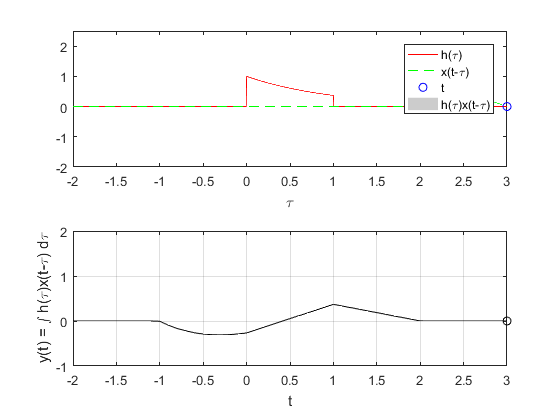
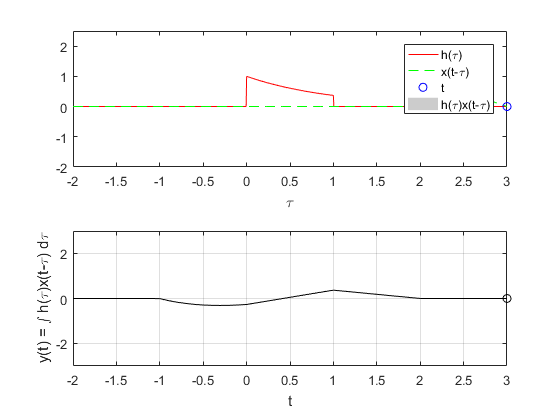
Nuevos parametros

diff --git a/RPL04 Convolución y Correlación de señales en tiempo continuo/Ejercicio/html/Practica4.html b/RPL04 Convolución y Correlación de señales en tiempo continuo/Ejercicio/html/Practica4.html
@@ -6,7 +6,7 @@
    <!--
 This HTML was auto-generated from MATLAB code.
 To make changes, update the MATLAB code and republish this document.
-      --><title>Pr&aacute;ctica 4: Convoluci&oacute;n y Correlaci&oacute;n de se&ntilde;ales en tiempo continuo</title><meta name="generator" content="MATLAB 9.0"><link rel="schema.DC" href="http://purl.org/dc/elements/1.1/"><meta name="DC.date" content="2017-05-12"><meta name="DC.source" content="Practica4.m"><style type="text/css">
+      --><title>Pr&aacute;ctica 4: Convoluci&oacute;n y Correlaci&oacute;n de se&ntilde;ales en tiempo continuo</title><meta name="generator" content="MATLAB 9.0"><link rel="schema.DC" href="http://purl.org/dc/elements/1.1/"><meta name="DC.date" content="2017-05-13"><meta name="DC.source" content="Practica4.m"><style type="text/css">
 html,body,div,span,applet,object,iframe,h1,h2,h3,h4,h5,h6,p,blockquote,pre,a,abbr,acronym,address,big,cite,code,del,dfn,em,font,img,ins,kbd,q,s,samp,small,strike,strong,sub,sup,tt,var,b,u,i,center,dl,dt,dd,ol,ul,li,fieldset,form,label,legend,table,caption,tbody,tfoot,thead,tr,th,td{margin:0;padding:0;border:0;outline:0;font-size:100%;vertical-align:baseline;background:transparent}body{line-height:1}ol,ul{list-style:none}blockquote,q{quotes:none}blockquote:before,blockquote:after,q:before,q:after{content:'';content:none}:focus{outine:0}ins{text-decoration:none}del{text-decoration:line-through}table{border-collapse:collapse;border-spacing:0}
 
 html { min-height:100%; margin-bottom:1px; }
@@ -67,16 +67,18 @@ table td { padding:7px 5px; text-align:left; vertical-align:top; border:1px soli
 
 
   </style></head><body><div class="content"><h1>Pr&aacute;ctica 4: Convoluci&oacute;n y Correlaci&oacute;n de se&ntilde;ales en tiempo continuo</h1><!--introduction--><p><b>Alvarado Balbuena Jorge Anselmo</b></p><!--/introduction--><h2>Contents</h2><div><ul><li><a href="#1">Problema 1</a></li><li><a href="#2">Problema 2</a></li><li><a href="#3">Problema 3</a></li><li><a href="#4">Problema 4</a></li><li><a href="#5">Problema 5</a></li><li><a href="#6">Problema 6</a></li><li><a href="#7">Problema 7</a></li></ul></div><h2>Problema 1<a name="1"></a></h2><pre class="language-matlab">Parametros
-x <span class="string">-&gt;</span> <span class="string">Funcion</span> <span class="string">que</span> <span class="string">se</span> <span class="string">movera.</span>
-h <span class="string">-&gt;</span> <span class="string">Funcion</span> <span class="string">que</span> <span class="string">se</span> <span class="string">dejara</span> <span class="string">fija.</span>
-tm <span class="string">-&gt;</span> <span class="string">Valor</span> <span class="string">minimo</span> <span class="string">de</span> <span class="string">tau</span> <span class="string">para</span> <span class="string">la</span> <span class="string">visualizaci&oacute;n.</span>
-tM <span class="string">-&gt;</span> <span class="string">Valor</span> <span class="string">maximo</span> <span class="string">de</span> <span class="string">tau</span> <span class="string">para</span> <span class="string">la</span> <span class="string">visualizaci&oacute;n.</span>
-</pre><pre class="language-matlab"><span class="keyword">function</span> [] = ConvConm( x, h, tm, tM )
+x <span class="string">-&gt;</span> <span class="string">Funcion</span> <span class="string">que</span> <span class="string">se</span> <span class="string">movera</span>
+h <span class="string">-&gt;</span> <span class="string">Funcion</span> <span class="string">que</span> <span class="string">se</span> <span class="string">dejara</span> <span class="string">fija</span>
+tm <span class="string">-&gt;</span> <span class="string">Valor</span> <span class="string">minimo</span> <span class="string">de</span> <span class="string">tau</span> <span class="string">para</span> <span class="string">la</span> <span class="string">visualizacion</span>
+tM <span class="string">-&gt;</span> <span class="string">Valor</span> <span class="string">maximo</span> <span class="string">de</span> <span class="string">tau</span> <span class="string">para</span> <span class="string">la</span> <span class="string">visualizacion</span>
+ym-&gt; Valor minimo
+yM-&gt; Valor maximo
+<span class="keyword">function</span> [] = ConvConm( x, h, tm, tM, ym, yM )
     figure (1) <span class="comment">% Se crea una figura para hacer las gr&aacute;ficas</span>
     dtau = 0.005; <span class="comment">% Base de los rectangulos para realizar la integral</span>
-    tau = tm:dtau:tM; <span class="comment">% Aqui utlizamos loa parametros de visualizacion</span>
+    tau = tm:dtau:tM; <span class="comment">% Intervalo de visualizaci&oacute;n del resultado</span>
     ti = 0; <span class="comment">% Indice para el vector de resultados</span>
-    tvec = -.25:.1:3.75; <span class="comment">% traslaciones de t, cuantas integrales se calulan</span>
+    tvec = tm:.1:tM; <span class="comment">% traslaciones de t, cuantas integrales se calulan</span>
     y = NaN*zeros(1, length (tvec)); <span class="comment">% Resultados de acuerdo a cuantos t</span>
     <span class="keyword">for</span> t = tvec, <span class="comment">% Cantidad de traslaciones</span>
         ti = ti+1; <span class="comment">% Indice para guardar el resultado (indice del tiempo)</span>
@@ -95,7 +97,7 @@ tM <span class="string">-&gt;</span> <span class="string">Valor</span> <span cla
         plot (tvec, y, <span class="string">'k'</span>, tvec (ti), y(ti), <span class="string">'ok'</span>);
         xlabel (<span class="string">'t'</span>);
         ylabel (<span class="string">'y(t) = \int h(\tau)x(t-\tau) d\tau'</span>);
-        axis ([tau(1) tau(end) -1.0 2.0]); <span class="comment">% l&iacute;mites del eje</span>
+        axis ([tau(1) tau(end) ym yM]); <span class="comment">% l&iacute;mites del eje</span>
         grid; <span class="comment">% malla</span>
         drawnow; <span class="comment">% efecto de movimiento continuo</span>
     <span class="keyword">end</span>
@@ -104,39 +106,40 @@ tM <span class="string">-&gt;</span> <span class="string">Valor</span> <span cla
 </pre><p><img src="Practica4_eq01940567370441733698.png" alt="$$h(t) = u(t + 0.5) - u(t - 0.5)$$"></p><p><img src="Practica4_eq05231849101868127961.png" alt="$$x(t) = u(t + 0.5) - u(t - 0.5)$$"></p><pre class="codeinput"><span class="comment">%t = -3:.01:3;</span>
 h = @(t) (t&lt;0.5 &amp; t&gt;-0.5);
 x = @(t) (t&lt;0.5 &amp; t&gt;-0.5);
-ConvConm(h, x, -2, 2);
+ConvConm(h, x, -2, 2, -2, 2);
 </pre><img vspace="5" hspace="5" src="Practica4_01.png" alt=""> <h2>Problema 3<a name="3"></a></h2><pre class="language-matlab">Convoluci&oacute;n
 </pre><p><img src="Practica4_eq16362762516362535040.png" alt="$f(t) = e^{-t}$"></p><p><img src="Practica4_eq14360481311710373534.png" alt="$g(t) = t$"></p><pre class="codeinput"><span class="comment">%t = -1:.01:3;</span>
 f = @(t) (exp(-t)).*(t&gt;=0 &amp; t&lt;=1);
 g = @(t) (t).*(t&gt;=-1 &amp; t&lt;=1);
-ConvConm(g, f, -2, 3);
+ConvConm(g, f, -2, 3, -3, 3);
 </pre><img vspace="5" hspace="5" src="Practica4_02.png" alt=""> <h2>Problema 4<a name="4"></a></h2><pre class="language-matlab">Autocorrelaci&oacute;n
 </pre><p><img src="Practica4_eq12154421160986327557.png" alt="$$x_{0}(t) = u(t) - 2u(t-2) + u(t-4)$$"></p><pre class="codeinput"><span class="comment">%t = -5:.01:5;</span>
 k = @(t) (t&gt;=0)-2.*(t&gt;2)+(t&gt;4);
 ki = @(t) (-t&gt;=0)-2.*(-t&gt;2)+(-t&gt;4);
-ConvConm(ki, k, -3, 8);
+ConvConm(ki, k, -3, 8, -10, 10);
 </pre><img vspace="5" hspace="5" src="Practica4_03.png" alt=""> <h2>Problema 5<a name="5"></a></h2><pre class="codeinput">l = @(t) (t&gt;=0)-2.*(t&gt;3)+(t&gt;4);
 li = @(t) (-t&gt;=0)-2.*(-t&gt;3)+(-t&gt;4);
-ConvConm(li, l, -3, 8);
-</pre><img vspace="5" hspace="5" src="Practica4_04.png" alt=""> <h2>Problema 6<a name="6"></a></h2><pre class="codeinput">ConvConm(li, k, -3, 8);
-</pre><img vspace="5" hspace="5" src="Practica4_05.png" alt=""> <h2>Problema 7<a name="7"></a></h2><pre class="codeinput">ConvConm(ki, l, -3, 8);
-</pre><img vspace="5" hspace="5" src="Practica4_06.png" alt=""> <img vspace="5" hspace="5" src="Practica4_07.png" alt=""> <p class="footer"><br><a href="http://www.mathworks.com/products/matlab/">Published with MATLAB&reg; R2016a</a><br></p></div><!--
+ConvConm(li, l, -3, 8, -10, 10);
+</pre><img vspace="5" hspace="5" src="Practica4_04.png" alt=""> <h2>Problema 6<a name="6"></a></h2><pre class="codeinput">ConvConm(li, k, -3, 8, -10, 10);
+</pre><img vspace="5" hspace="5" src="Practica4_05.png" alt=""> <h2>Problema 7<a name="7"></a></h2><pre class="codeinput">ConvConm(ki, l, -3, 8, -10, 10);
+</pre><img vspace="5" hspace="5" src="Practica4_06.png" alt=""> <p class="footer"><br><a href="http://www.mathworks.com/products/matlab/">Published with MATLAB&reg; R2016a</a><br></p></div><!--
 ##### SOURCE BEGIN #####
 %% Práctica 4: Convolución y Correlación de señales en tiempo continuo
 % *Alvarado Balbuena Jorge Anselmo*
 %% Problema 1
-%   Parametros
-%   x -> Funcion que se movera.
-%   h -> Funcion que se dejara fija.
-%   tm -> Valor minimo de tau para la visualización.
-%   tM -> Valor maximo de tau para la visualización.
-%
-%   function [] = ConvConm( x, h, tm, tM )
+%   Parametros 
+%   x -> Funcion que se movera
+%   h -> Funcion que se dejara fija
+%   tm -> Valor minimo de tau para la visualizacion
+%   tM -> Valor maximo de tau para la visualizacion
+%   ym-> Valor minimo 
+%   yM-> Valor maximo 
+%   function [] = ConvConm( x, h, tm, tM, ym, yM )
 %       figure (1) % Se crea una figura para hacer las gráficas
 %       dtau = 0.005; % Base de los rectangulos para realizar la integral
-%       tau = tm:dtau:tM; % Aqui utlizamos loa parametros de visualizacion
+%       tau = tm:dtau:tM; % Intervalo de visualización del resultado
 %       ti = 0; % Indice para el vector de resultados
-%       tvec = -.25:.1:3.75; % traslaciones de t, cuantas integrales se calulan
+%       tvec = tm:.1:tM; % traslaciones de t, cuantas integrales se calulan
 %       y = NaN*zeros(1, length (tvec)); % Resultados de acuerdo a cuantos t
 %       for t = tvec, % Cantidad de traslaciones
 %           ti = ti+1; % Indice para guardar el resultado (indice del tiempo)
@@ -155,7 +158,7 @@ ConvConm(li, l, -3, 8);
 %           plot (tvec, y, 'k', tvec (ti), y(ti), 'ok');
 %           xlabel ('t');
 %           ylabel ('y(t) = \int h(\tau)x(t-\tau) d\tau');
-%           axis ([tau(1) tau(end) -1.0 2.0]); % límites del eje
+%           axis ([tau(1) tau(end) ym yM]); % límites del eje
 %           grid; % malla
 %           drawnow; % efecto de movimiento continuo
 %       end
@@ -169,7 +172,7 @@ ConvConm(li, l, -3, 8);
 %t = -3:.01:3;
 h = @(t) (t<0.5 & t>-0.5);
 x = @(t) (t<0.5 & t>-0.5);
-ConvConm(h, x, -2, 2);
+ConvConm(h, x, -2, 2, -2, 2);
 %% Problema 3
 %   Convolución
 %
@@ -179,7 +182,7 @@ ConvConm(h, x, -2, 2);
 %t = -1:.01:3;
 f = @(t) (exp(-t)).*(t>=0 & t<=1);
 g = @(t) (t).*(t>=-1 & t<=1);
-ConvConm(g, f, -2, 3);
+ConvConm(g, f, -2, 3, -3, 3);
 %% Problema 4
 %   Autocorrelación
 %
@@ -188,17 +191,17 @@ ConvConm(g, f, -2, 3);
 %t = -5:.01:5;
 k = @(t) (t>=0)-2.*(t>2)+(t>4);
 ki = @(t) (-t>=0)-2.*(-t>2)+(-t>4);
-ConvConm(ki, k, -3, 8);
+ConvConm(ki, k, -3, 8, -10, 10);
 %% Problema 5
 % 
 l = @(t) (t>=0)-2.*(t>3)+(t>4);
 li = @(t) (-t>=0)-2.*(-t>3)+(-t>4);
-ConvConm(li, l, -3, 8);
+ConvConm(li, l, -3, 8, -10, 10);
 %% Problema 6
 %
-ConvConm(li, k, -3, 8);
+ConvConm(li, k, -3, 8, -10, 10);
 %% Problema 7
 %
-ConvConm(ki, l, -3, 8);
+ConvConm(ki, l, -3, 8, -10, 10);
 ##### SOURCE END #####
 --></body></html>
